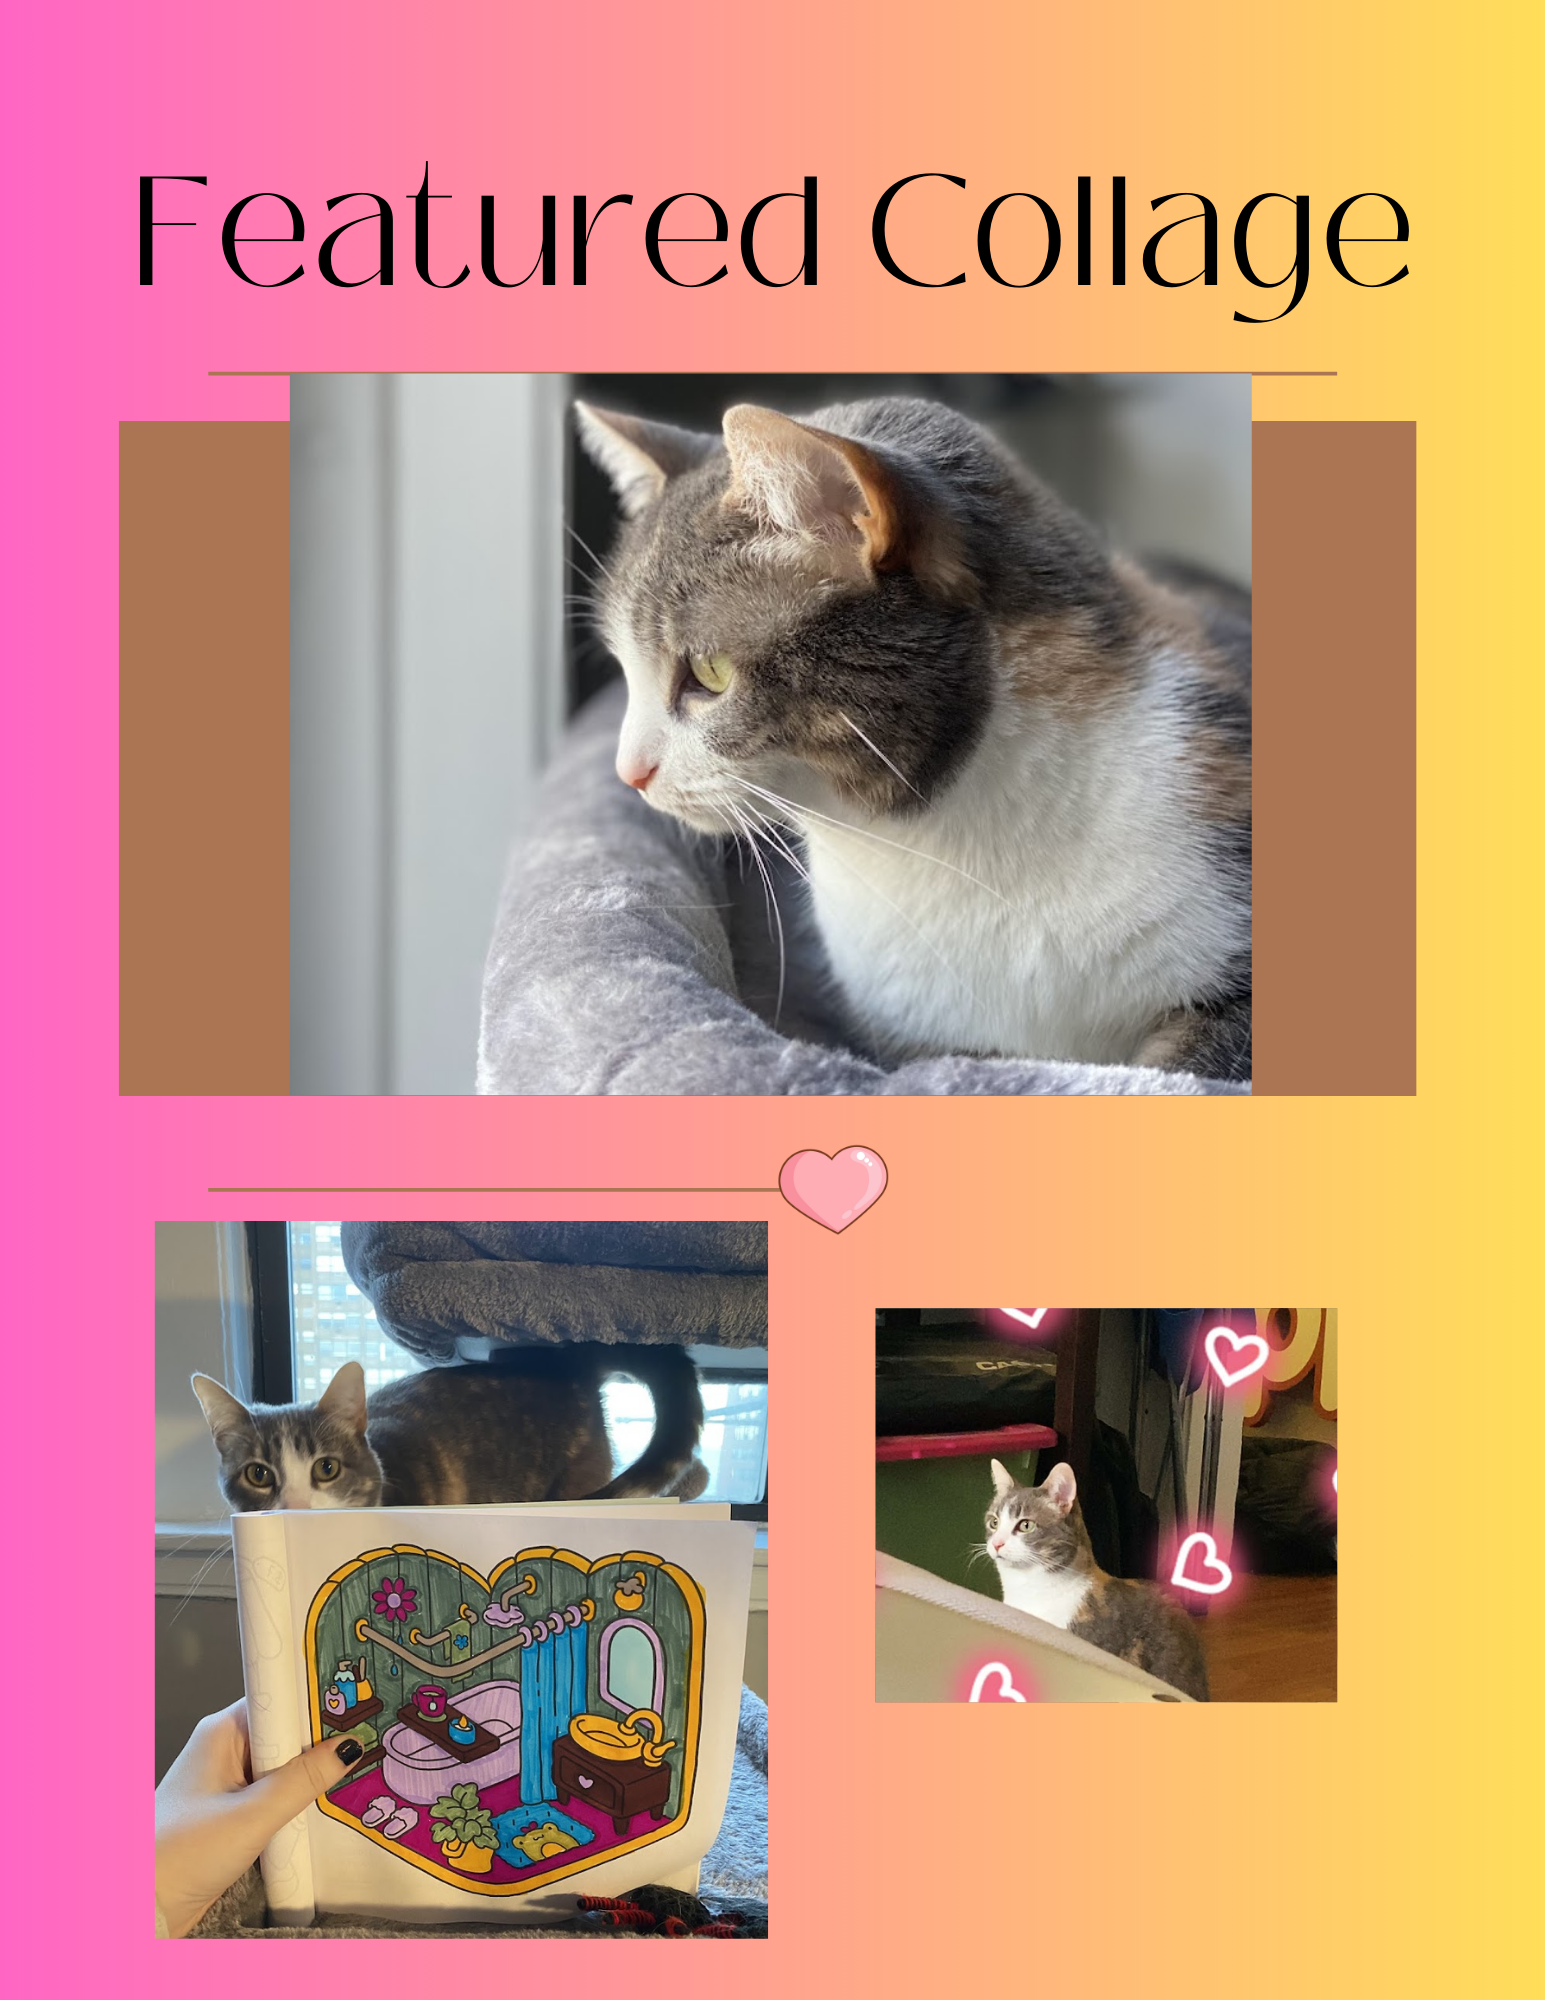
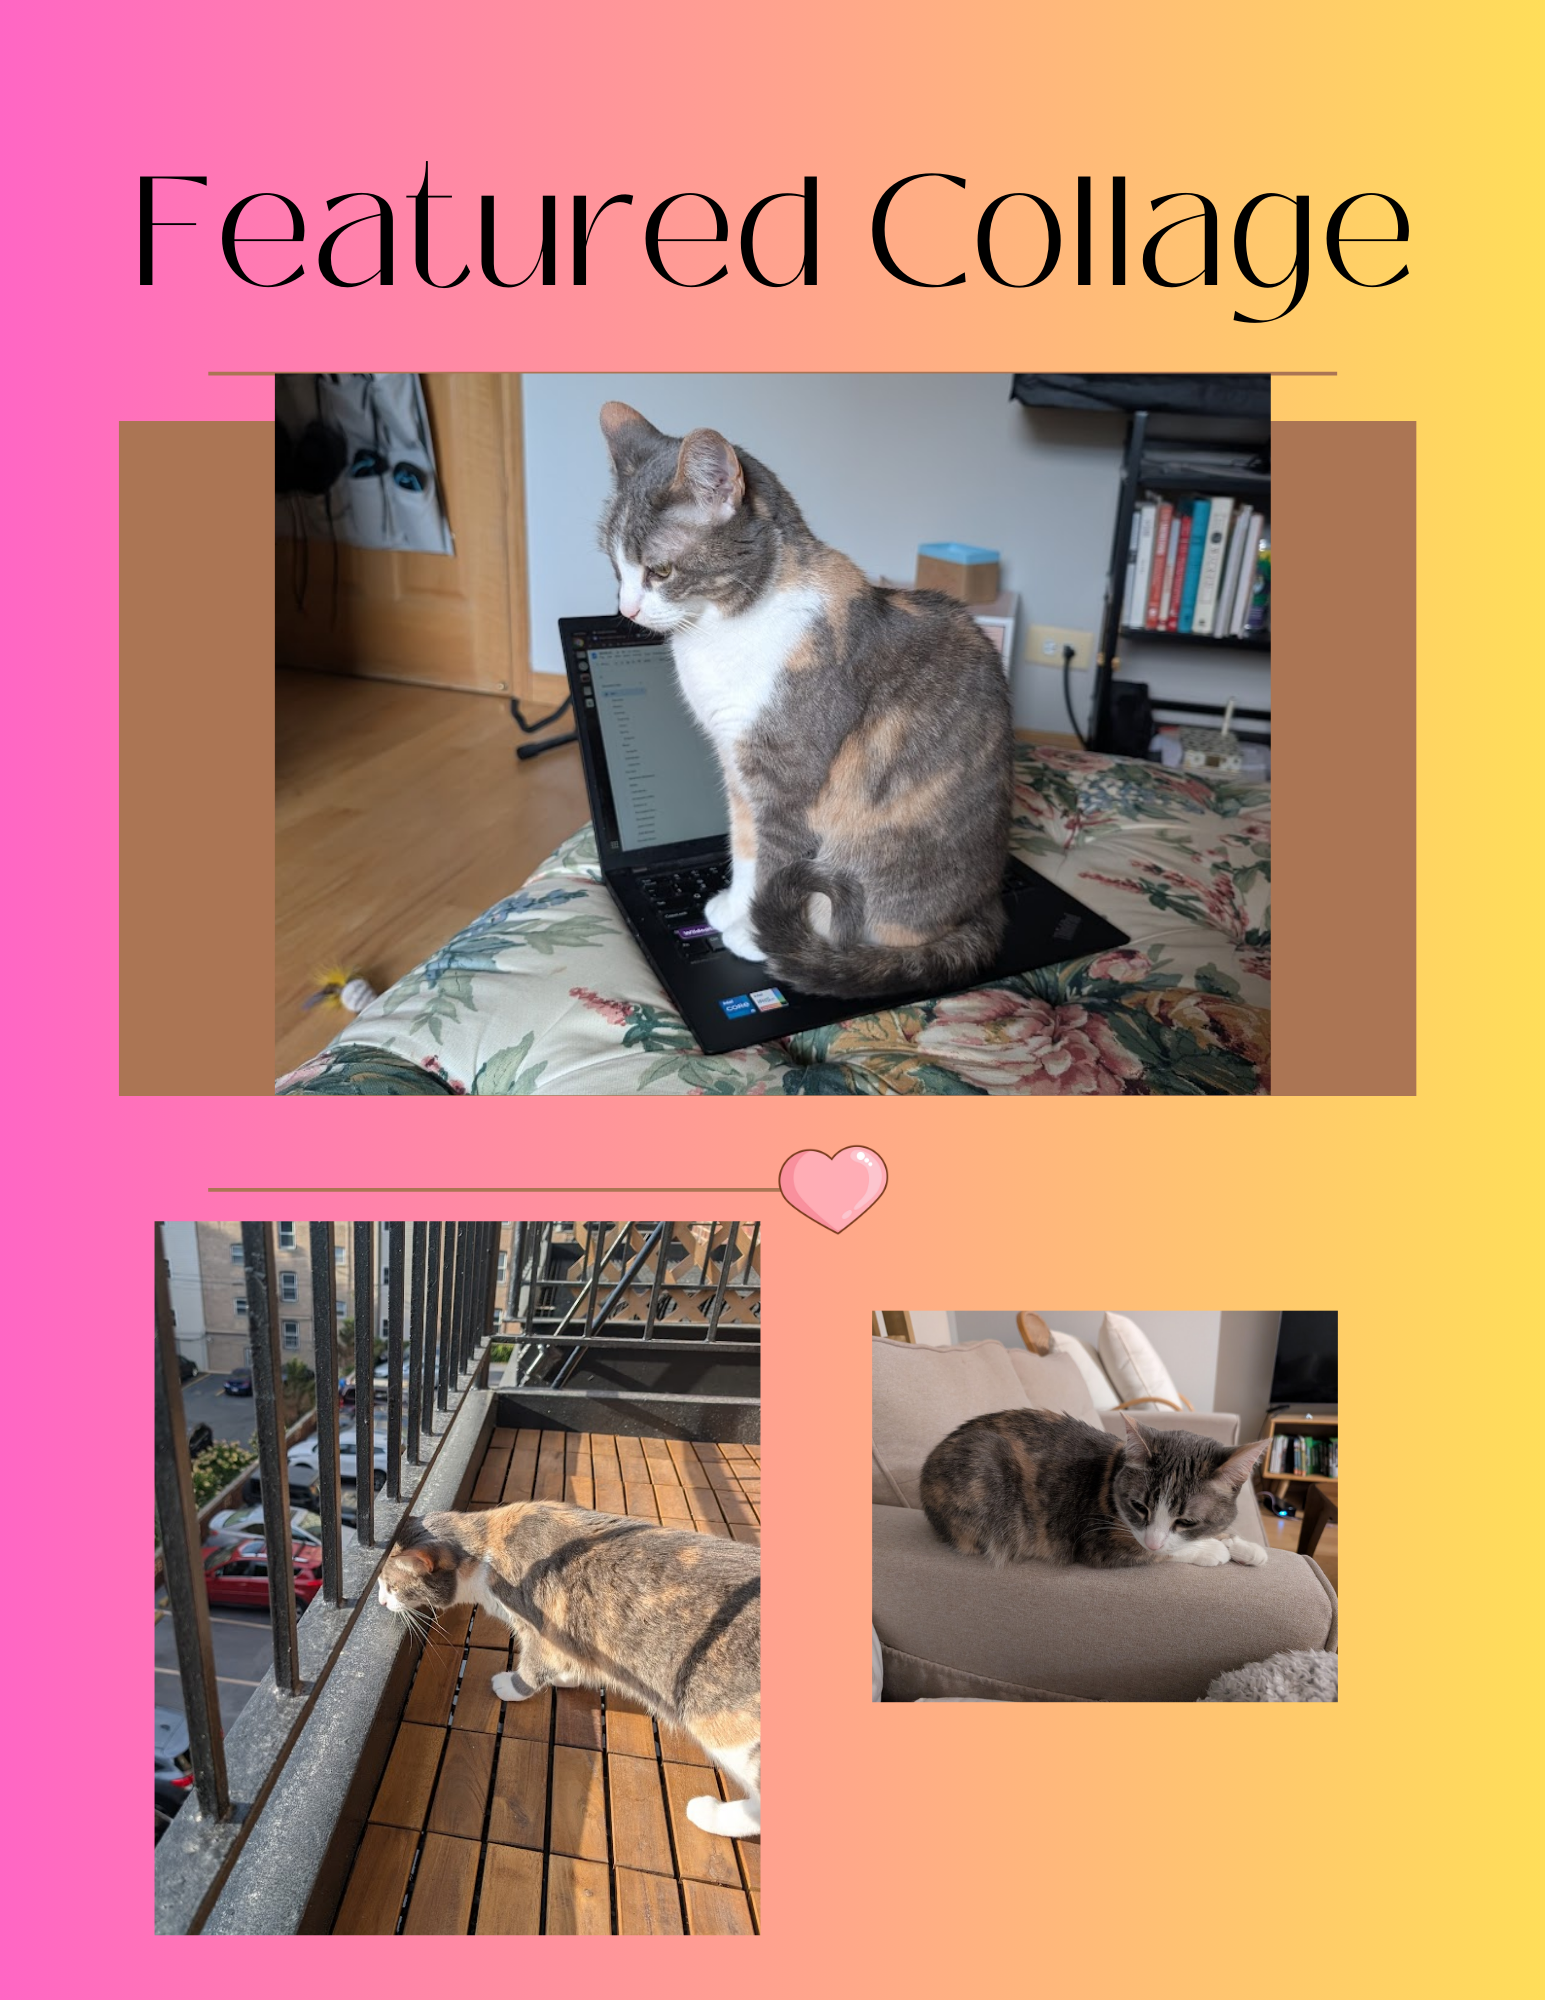
updated resume button

diff --git a/_site/engineering.html b/_site/engineering.html
@@ -150,11 +150,15 @@
             </div>
         </a>
     </div>
-
-    <a href="/assets/files/SophiaSchifferResume.pdf" download="SophiaSchifferResume.pdf">
-        <button type="button" class="button" style="text-decoration: none;">
-            Download my Resume
-        </button>
+</div>
+<div style="text-align: center;">
+    <a
+        href="/assets/files/SophiaSchifferResume.pdf"
+        download="SophiaSchifferResume.pdf"
+        class="button"
+        style="position:relative; z-index:1000; text-decoration: none;"
+    >
+        Download my Resume
     </a>
 </div>
 

diff --git a/engineering.html b/engineering.html
@@ -103,10 +103,14 @@ file: /assets/files/SophiaSchifferResume.pdf
             </div>
         </a>
     </div>
-
-    <a href="{{page.file | relative_url }}" download="SophiaSchifferResume.pdf">
-        <button type="button" class="button" style="text-decoration: none;">
-            Download my Resume
-        </button>
+</div>
+<div style="text-align: center;">
+    <a
+        href="{{ page.file | relative_url }}"
+        download="SophiaSchifferResume.pdf"
+        class="button"
+        style="position:relative; z-index:1000; text-decoration: none;"
+    >
+        Download my Resume
     </a>
 </div>

diff --git a/_site/2021/01/18/millet.html b/_site/2021/01/18/millet.html
@@ -17,11 +17,11 @@
 <link rel="canonical" href="http://localhost:4000/2021/01/18/millet.html" />
 <meta property="og:url" content="http://localhost:4000/2021/01/18/millet.html" />
 <meta property="og:type" content="article" />
-<meta property="article:published_time" content="2021-01-18T00:00:00-08:00" />
+<meta property="article:published_time" content="2021-01-18T00:00:00-06:00" />
 <meta name="twitter:card" content="summary" />
 <meta property="twitter:title" content="Millet" />
 <script type="application/ld+json">
-{"@context":"https://schema.org","@type":"BlogPosting","author":{"@type":"Person","name":"annabella"},"dateModified":"2021-01-18T00:00:00-08:00","datePublished":"2021-01-18T00:00:00-08:00","description":"MILLET!!","headline":"Millet","mainEntityOfPage":{"@type":"WebPage","@id":"http://localhost:4000/2021/01/18/millet.html"},"url":"http://localhost:4000/2021/01/18/millet.html"}</script>
+{"@context":"https://schema.org","@type":"BlogPosting","author":{"@type":"Person","name":"annabella"},"dateModified":"2021-01-18T00:00:00-06:00","datePublished":"2021-01-18T00:00:00-06:00","description":"MILLET!!","headline":"Millet","mainEntityOfPage":{"@type":"WebPage","@id":"http://localhost:4000/2021/01/18/millet.html"},"url":"http://localhost:4000/2021/01/18/millet.html"}</script>
 <!-- End Jekyll SEO tag -->
 
   </head>

diff --git a/_site/2023/12/26/kraken.html b/_site/2023/12/26/kraken.html
@@ -17,11 +17,11 @@
 <link rel="canonical" href="http://localhost:4000/2023/12/26/kraken.html" />
 <meta property="og:url" content="http://localhost:4000/2023/12/26/kraken.html" />
 <meta property="og:type" content="article" />
-<meta property="article:published_time" content="2023-12-26T00:00:00-08:00" />
+<meta property="article:published_time" content="2023-12-26T00:00:00-06:00" />
 <meta name="twitter:card" content="summary" />
 <meta property="twitter:title" content="Kraken" />
 <script type="application/ld+json">
-{"@context":"https://schema.org","@type":"BlogPosting","author":{"@type":"Person","name":"sophia"},"dateModified":"2023-12-26T00:00:00-08:00","datePublished":"2023-12-26T00:00:00-08:00","description":"The kraken is a giant, carniverous octopus.","headline":"Kraken","mainEntityOfPage":{"@type":"WebPage","@id":"http://localhost:4000/2023/12/26/kraken.html"},"url":"http://localhost:4000/2023/12/26/kraken.html"}</script>
+{"@context":"https://schema.org","@type":"BlogPosting","author":{"@type":"Person","name":"sophia"},"dateModified":"2023-12-26T00:00:00-06:00","datePublished":"2023-12-26T00:00:00-06:00","description":"The kraken is a giant, carniverous octopus.","headline":"Kraken","mainEntityOfPage":{"@type":"WebPage","@id":"http://localhost:4000/2023/12/26/kraken.html"},"url":"http://localhost:4000/2023/12/26/kraken.html"}</script>
 <!-- End Jekyll SEO tag -->
 
   </head>

diff --git a/_site/2024/01/15/kinky-boots.html b/_site/2024/01/15/kinky-boots.html
@@ -16,11 +16,11 @@
 <link rel="canonical" href="http://localhost:4000/2024/01/15/kinky-boots.html" />
 <meta property="og:url" content="http://localhost:4000/2024/01/15/kinky-boots.html" />
 <meta property="og:type" content="article" />
-<meta property="article:published_time" content="2024-01-15T00:00:00-08:00" />
+<meta property="article:published_time" content="2024-01-15T00:00:00-06:00" />
 <meta name="twitter:card" content="summary" />
 <meta property="twitter:title" content="Kinky Boots" />
 <script type="application/ld+json">
-{"@context":"https://schema.org","@type":"BlogPosting","dateModified":"2024-01-15T00:00:00-08:00","datePublished":"2024-01-15T00:00:00-08:00","description":"Kinky Boots!","headline":"Kinky Boots","mainEntityOfPage":{"@type":"WebPage","@id":"http://localhost:4000/2024/01/15/kinky-boots.html"},"url":"http://localhost:4000/2024/01/15/kinky-boots.html"}</script>
+{"@context":"https://schema.org","@type":"BlogPosting","dateModified":"2024-01-15T00:00:00-06:00","datePublished":"2024-01-15T00:00:00-06:00","description":"Kinky Boots!","headline":"Kinky Boots","mainEntityOfPage":{"@type":"WebPage","@id":"http://localhost:4000/2024/01/15/kinky-boots.html"},"url":"http://localhost:4000/2024/01/15/kinky-boots.html"}</script>
 <!-- End Jekyll SEO tag -->
 
   </head>

diff --git a/_site/authors/annabella.html b/_site/authors/annabella.html
@@ -16,11 +16,11 @@
 <link rel="canonical" href="http://localhost:4000/authors/annabella.html" />
 <meta property="og:url" content="http://localhost:4000/authors/annabella.html" />
 <meta property="og:type" content="article" />
-<meta property="article:published_time" content="2025-02-01T21:13:59-08:00" />
+<meta property="article:published_time" content="2026-07-09T20:29:57-05:00" />
 <meta name="twitter:card" content="summary" />
 <meta property="twitter:title" content="Annabella" />
 <script type="application/ld+json">
-{"@context":"https://schema.org","@type":"BlogPosting","dateModified":"2025-02-01T21:13:59-08:00","datePublished":"2025-02-01T21:13:59-08:00","description":"Annabella is a Schiffer family treasure. She likes to make noise, eat millet, and poop. She may or may not have murdered her husband.","headline":"Annabella","mainEntityOfPage":{"@type":"WebPage","@id":"http://localhost:4000/authors/annabella.html"},"url":"http://localhost:4000/authors/annabella.html"}</script>
+{"@context":"https://schema.org","@type":"BlogPosting","dateModified":"2026-07-09T20:29:57-05:00","datePublished":"2026-07-09T20:29:57-05:00","description":"Annabella is a Schiffer family treasure. She likes to make noise, eat millet, and poop. She may or may not have murdered her husband.","headline":"Annabella","mainEntityOfPage":{"@type":"WebPage","@id":"http://localhost:4000/authors/annabella.html"},"url":"http://localhost:4000/authors/annabella.html"}</script>
 <!-- End Jekyll SEO tag -->
 
   </head>

diff --git a/_site/authors/sophia.html b/_site/authors/sophia.html
@@ -16,11 +16,11 @@
 <link rel="canonical" href="http://localhost:4000/authors/sophia.html" />
 <meta property="og:url" content="http://localhost:4000/authors/sophia.html" />
 <meta property="og:type" content="article" />
-<meta property="article:published_time" content="2025-02-01T21:13:59-08:00" />
+<meta property="article:published_time" content="2026-07-09T20:29:57-05:00" />
 <meta name="twitter:card" content="summary" />
 <meta property="twitter:title" content="Sophia" />
 <script type="application/ld+json">
-{"@context":"https://schema.org","@type":"BlogPosting","dateModified":"2025-02-01T21:13:59-08:00","datePublished":"2025-02-01T21:13:59-08:00","description":"Sophia is a violinist, composer, and geek from Bellevue, WA.","headline":"Sophia","mainEntityOfPage":{"@type":"WebPage","@id":"http://localhost:4000/authors/sophia.html"},"url":"http://localhost:4000/authors/sophia.html"}</script>
+{"@context":"https://schema.org","@type":"BlogPosting","dateModified":"2026-07-09T20:29:57-05:00","datePublished":"2026-07-09T20:29:57-05:00","description":"Sophia is a violinist, composer, and geek from Bellevue, WA.","headline":"Sophia","mainEntityOfPage":{"@type":"WebPage","@id":"http://localhost:4000/authors/sophia.html"},"url":"http://localhost:4000/authors/sophia.html"}</script>
 <!-- End Jekyll SEO tag -->
 
   </head>